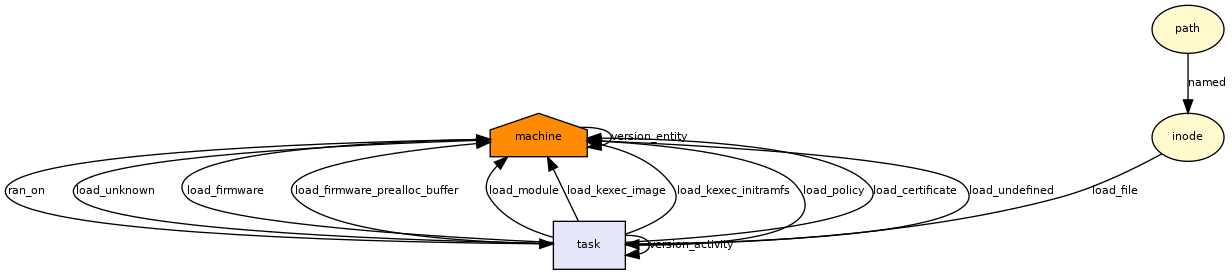
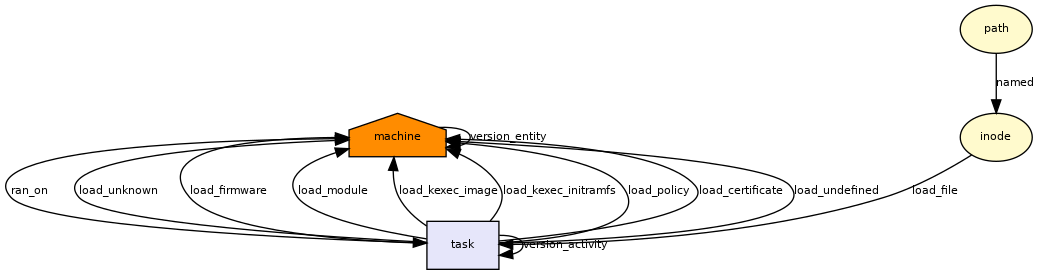
fully remove relation related to READING_FIRMWARE_PREALLOC_BUFFER

Changed region(s): [[0.0, 0.0, 1.0, 0.9891], [0.3077, 0.7855, 0.3385, 0.8145]]

diff --git a/security/provenance/type.c b/security/provenance/type.c
@@ -104,7 +104,6 @@ static const char RL_STR_LOAD_FILE[] = "load_file";                             
 static const char RL_STR_RAN_ON[] = "ran_on";                                                           // task run on this machine
 static const char RL_STR_LOAD_UNKNOWN[] = "load_unknown";                                               // load file into kernel
 static const char RL_STR_LOAD_FIRMWARE[] = "load_firmware";                                             // load file into kernel
-static const char RL_STR_LOAD_FIRMWARE_PREALLOC_BUFFER[] = "load_firmware_prealloc_buffer";             // load file into kernel
 static const char RL_STR_LOAD_MODULE[] = "load_module";                                                 // load file into kernel
 static const char RL_STR_LOAD_KEXEC_IMAGE[] = "load_kexec_image";                                       // load file into kernel
 static const char RL_STR_LOAD_KEXEC_INITRAMFS[] = "load_kexec_initramfs";                               // load file into kernel
@@ -334,8 +333,6 @@ const char *relation_str(uint64_t type)
 		return RL_STR_LOAD_UNKNOWN;
 	case RL_LOAD_FIRMWARE:
 		return RL_STR_LOAD_FIRMWARE;
-	case RL_LOAD_FIRMWARE_PREALLOC_BUFFER:
-		return RL_STR_LOAD_FIRMWARE_PREALLOC_BUFFER;
 	case RL_LOAD_MODULE:
 		return RL_STR_LOAD_MODULE;
 	case RL_LOAD_KEXEC_IMAGE:
@@ -472,8 +469,6 @@ uint64_t relation_id(const char *str)
 	MATCH_AND_RETURN(str, RL_STR_LOAD_FILE, RL_LOAD_FILE);
 	MATCH_AND_RETURN(str, RL_STR_LOAD_UNKNOWN, RL_LOAD_UNKNOWN);
 	MATCH_AND_RETURN(str, RL_STR_LOAD_FIRMWARE, RL_LOAD_FIRMWARE);
-	MATCH_AND_RETURN(str, RL_STR_LOAD_FIRMWARE_PREALLOC_BUFFER,
-			 RL_LOAD_FIRMWARE_PREALLOC_BUFFER);
 	MATCH_AND_RETURN(str, RL_STR_LOAD_MODULE, RL_LOAD_MODULE);
 	MATCH_AND_RETURN(str, RL_STR_LOAD_KEXEC_IMAGE, RL_LOAD_KEXEC_IMAGE);
 	MATCH_AND_RETURN(str, RL_STR_LOAD_KEXEC_INITRAMFS,

diff --git a/include/uapi/linux/provenance_types.h b/include/uapi/linux/provenance_types.h
@@ -157,14 +157,13 @@
 /* INFLUENCED  SUBTYPES */
 #define RL_LOAD_UNKNOWN                         (RL_INFLUENCED | (0x0000000000000001ULL))
 #define RL_LOAD_FIRMWARE                        (RL_INFLUENCED | (0x0000000000000001ULL << 1))
-#define RL_LOAD_FIRMWARE_PREALLOC_BUFFER        (RL_INFLUENCED | (0x0000000000000001ULL << 2))
-#define RL_LOAD_MODULE                          (RL_INFLUENCED | (0x0000000000000001ULL << 3))
-#define RL_LOAD_KEXEC_IMAGE                     (RL_INFLUENCED | (0x0000000000000001ULL << 4))
-#define RL_LOAD_KEXEC_INITRAMFS                 (RL_INFLUENCED | (0x0000000000000001ULL << 5))
-#define RL_LOAD_POLICY                          (RL_INFLUENCED | (0x0000000000000001ULL << 6))
-#define RL_LOAD_CERTIFICATE                     (RL_INFLUENCED | (0x0000000000000001ULL << 7))
-#define RL_LOAD_UNDEFINED                       (RL_INFLUENCED | (0x0000000000000001ULL << 8))
-#define RL_INFLUENCED_DISC                      (RL_INFLUENCED | (0x0000000000000001ULL << 9))
+#define RL_LOAD_MODULE                          (RL_INFLUENCED | (0x0000000000000001ULL << 2))
+#define RL_LOAD_KEXEC_IMAGE                     (RL_INFLUENCED | (0x0000000000000001ULL << 3))
+#define RL_LOAD_KEXEC_INITRAMFS                 (RL_INFLUENCED | (0x0000000000000001ULL << 4))
+#define RL_LOAD_POLICY                          (RL_INFLUENCED | (0x0000000000000001ULL << 5))
+#define RL_LOAD_CERTIFICATE                     (RL_INFLUENCED | (0x0000000000000001ULL << 6))
+#define RL_LOAD_UNDEFINED                       (RL_INFLUENCED | (0x0000000000000001ULL << 7))
+#define RL_INFLUENCED_DISC                      (RL_INFLUENCED | (0x0000000000000001ULL << 8))
 
 /* ASSOCIATED  SUBTYPES */
 #define RL_RAN_ON                               (RL_ASSOCIATED | (0x0000000000000001ULL))

diff --git a/include/uapi/linux/provenance.h b/include/uapi/linux/provenance.h
@@ -37,7 +37,7 @@
 	"."xstr (CAMFLOW_VERSION_MINOR)					\
 	"."xstr (CAMFLOW_VERSION_PATCH)					\
 
-#define CAMFLOW_COMMIT "d529abfeba53231975a9dd21420546ee557ade92"
+#define CAMFLOW_COMMIT "58a629a83be29842b4cc589a9ed6cd6845b2be5f"
 
 #define PROVENANCE_HASH                 "sha256"
 

diff --git a/docs/RELATIONS.md b/docs/RELATIONS.md
@@ -93,7 +93,6 @@ RL_LOAD_FILE|load_file|load file into kernel|
 RL_RAN_ON|ran_on|task run on this machine|
 RL_LOAD_UNKNOWN|load_unknown|load file into kernel|
 RL_LOAD_FIRMWARE|load_firmware|load file into kernel|
-RL_LOAD_FIRMWARE_PREALLOC_BUFFER|load_firmware_prealloc_buffer|load file into kernel|
 RL_LOAD_MODULE|load_module|load file into kernel|
 RL_LOAD_KEXEC_IMAGE|load_kexec_image|load file into kernel|
 RL_LOAD_KEXEC_INITRAMFS|load_kexec_initramfs|load file into kernel|
